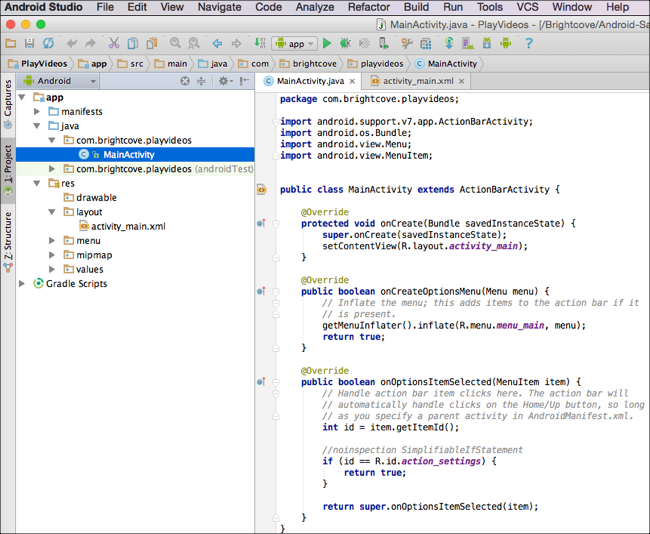
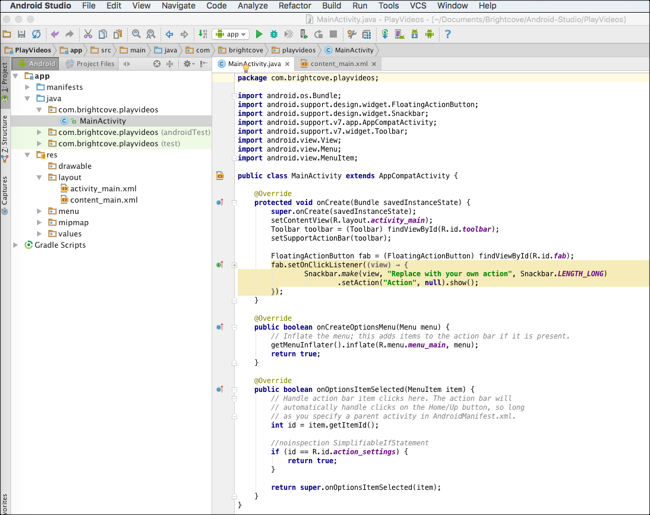
update Basic Activity for Android Studio QS

diff --git a/en/perform/mobile-sdks/brightcove-player-sdk-for-android/guides/studio-android-sdk-quick-start.html b/en/perform/mobile-sdks/brightcove-player-sdk-for-android/guides/studio-android-sdk-quick-start.html
@@ -49,11 +49,11 @@
             <p class="BCL-objective">In this quick start you will use Android Studio and the Brightcove Player SDK for Android to create an app which plays a video from a Brightcove Video Cloud account and videos from a Brightcove Video Cloud playlist.</p>
             <p>This example uses the <a href="../../../playback-api/index.html">Brightcove Playback API</a>. This is the latest and recommended API to retrieve content from your Video Cloud library.</p>
           </div><!--class="video-cloud-only"-->
-          
+
           <div class="perform-only">
             <p class="BCL-objective">In this quick start you will use Android Studio and the Brightcove Player SDK for Android to create an app which plays a single video.</p>
           </div><!--class="perform-only"-->
-          
+
             <!--break-->
             <div id="overview" class="section">
             <h2>Overview</h2>
@@ -96,8 +96,8 @@
                 <ul>
                     <li>If this is your first time opening Android Studio, select <strong>Start a new Android Studio project</strong>.</li>
                     <li>If you are seeing the menus, select <strong>File &gt; New &gt; New Project</strong>.</li>
-                </ul>  
-					
+                </ul>
+
             <ol start="4">
               <li><p>Supply values for the <strong>Application Name</strong>, <strong>Company Domain</strong>, and <strong>Project location</strong>. In this quick start the values shown below are used:</p>
                 <div><img src="../guides/assets/studioqs-new-project.png" alt="project name"></div></li>
@@ -105,8 +105,8 @@
               <li><p>Select the <strong>Phone and Tablet</strong> platform with the default minimum SDK value.  </p>
               <div><img src="../guides/assets/studioqs-platform.png" alt="project platform"></div></li>
               <li>Click <strong>Next</strong>.</li>
-              <li>Be sure <strong>Blank Activity</strong> is selected and click <strong>Next</strong>.</li>
-              <li>Accept the defaults of creating a <strong>Blank Activity</strong> and click <strong>Next</strong>.</li>
+              <li>Be sure <strong>Basic Activity</strong> is selected and click <strong>Next</strong>.</li>
+              <li>Accept the defaults of creating a <strong>Basic Activity</strong> and click <strong>Next</strong>.</li>
               <li><p>Accept the defaults for the activity details (see following screenshot) and click <strong>Finish</strong>.</p>
                 <div><img src="../guides/assets/studioqs-activity-class.png" alt="finish project creation"></div></li>
               <li><p>Android Studio will work for a while and eventually display the initial state of the project.</p>
@@ -186,7 +186,7 @@ the Native SDK for Android to our project.</p>
               <p class="perform-only"><code data-gist-id="9b3845c46244588687f7" data-gist-hide-footer="true" data-gist-line="315-325"></code></p>
 <!--                <p class="BCL-aside">Note: When extending the <code>BrightcovePlayer</code>, you must assign the <code>brightcoveVideoView</code> before entering the superclass, to allow for some basic player lifecycle management. </p>-->
                 </li>
-              
+
                 <li class="perform-only"><p>Next, you need to send your Perform Account ID to Brightcove using the analytics <code>setAccount()</code> method.</p>
                   <code data-gist-id="9b3845c46244588687f7" data-gist-hide-footer="true" data-gist-line="327-328"></code>
                 </li>
@@ -196,10 +196,10 @@ the Native SDK for Android to our project.</p>
                 <li><p>Now, add the following lines of code to add a video to the view and play it.</p>
                 <p class="perform-only"><code data-gist-id="9b3845c46244588687f7" data-gist-hide-footer="true" data-gist-line="330-331"></code></p>
               <p class="video-cloud-only"><code data-gist-id="9b3845c46244588687f7" data-gist-hide-footer="true" data-gist-line="228-229"></code></p></li>
-                
+
               <li class="perform-only"><p>Check to be sure your <code>onCreate()</code> method appears as follows:</p>
               <p><code data-gist-id="9b3845c46244588687f7" data-gist-hide-footer="true" data-gist-line="317-332"></code></p></li>
-          
+
               <li><p>Run or debug the application to see the video playing.</p>
               <p class="BCL-aside">When running the app on a device, make sure it is connected to the internet via your cell data plan or wifi.</p></li>
             </ol>
@@ -217,7 +217,7 @@ the Native SDK for Android to our project.</p>
               <li>Run the application and you will see the video playing, now with the controls visible. If you don't see the controls, tap the screen and they will appear.</li>
             </ol>
 -->
-            
+
             <div id="getVideo" class="section video-cloud-only">
               <h2>Get and play video</h2>
               <p>In this section, you will use the <code>Catalog</code> class to retrieve a single video from the Video Cloud server, then play it. </p>
@@ -283,10 +283,10 @@ the Native SDK for Android to our project.</p>
               <li>Run the app to confirm multiple videos from the playlist play.</li>
             </ol>
           </div><!--class="section video-cloud-only"-->
-          
+
           <p><strong>You're done! Thanks for working through the Android SDK Quick Start.</strong></p>
         </div>
-          
+
       </div>
     </div>
     <!-- bcl scripts -->
@@ -310,12 +310,12 @@ the Native SDK for Android to our project.</p>
         </script>
     <iframe id="CSAT" src="http://survey.clicktools.com/app/survey/go.jsp?iv=3poon3e7e9spn&q1=[articleURL]" style="margin-left:25%; padding-bottom:20px;width:550px;height:475px;border:none"></iframe>
 <script>
-    
+
     var cSat = document.getElementById('CSAT'),
         cSatSrc = cSat.getAttribute('src'),
         pageurl = window.location.href;
     cSat.setAttribute('src', cSatSrc.replace('[articleURL]', pageurl));
-    
+
 </script>
 <br><br>
 <div class="footer text-center"><a id="feedbackMail" href="mailto:docs@brightcove.com">Questions or comments?</a></div>

diff --git a/en/video-cloud/mobile-sdks/brightcove-player-sdk-for-android/guides/studio-android-sdk-quick-start.html b/en/video-cloud/mobile-sdks/brightcove-player-sdk-for-android/guides/studio-android-sdk-quick-start.html
@@ -49,11 +49,11 @@
             <p class="BCL-objective">In this quick start you will use Android Studio and the Brightcove Player SDK for Android to create an app which plays a video from a Brightcove Video Cloud account and videos from a Brightcove Video Cloud playlist.</p>
             <p>This example uses the <a href="../../../playback-api/index.html">Brightcove Playback API</a>. This is the latest and recommended API to retrieve content from your Video Cloud library.</p>
           </div><!--class="video-cloud-only"-->
-          
+
           <div class="perform-only">
             <p class="BCL-objective">In this quick start you will use Android Studio and the Brightcove Player SDK for Android to create an app which plays a single video.</p>
           </div><!--class="perform-only"-->
-          
+
             <!--break-->
             <div id="overview" class="section">
             <h2>Overview</h2>
@@ -96,8 +96,8 @@
                 <ul>
                     <li>If this is your first time opening Android Studio, select <strong>Start a new Android Studio project</strong>.</li>
                     <li>If you are seeing the menus, select <strong>File &gt; New &gt; New Project</strong>.</li>
-                </ul>  
-					
+                </ul>
+
             <ol start="4">
               <li><p>Supply values for the <strong>Application Name</strong>, <strong>Company Domain</strong>, and <strong>Project location</strong>. In this quick start the values shown below are used:</p>
                 <div><img src="../guides/assets/studioqs-new-project.png" alt="project name"></div></li>
@@ -105,8 +105,8 @@
               <li><p>Select the <strong>Phone and Tablet</strong> platform with the default minimum SDK value.  </p>
               <div><img src="../guides/assets/studioqs-platform.png" alt="project platform"></div></li>
               <li>Click <strong>Next</strong>.</li>
-              <li>Be sure <strong>Blank Activity</strong> is selected and click <strong>Next</strong>.</li>
-              <li>Accept the defaults of creating a <strong>Blank Activity</strong> and click <strong>Next</strong>.</li>
+              <li>Be sure <strong>Basic Activity</strong> is selected and click <strong>Next</strong>.</li>
+              <li>Accept the defaults of creating a <strong>Basic Activity</strong> and click <strong>Next</strong>.</li>
               <li><p>Accept the defaults for the activity details (see following screenshot) and click <strong>Finish</strong>.</p>
                 <div><img src="../guides/assets/studioqs-activity-class.png" alt="finish project creation"></div></li>
               <li><p>Android Studio will work for a while and eventually display the initial state of the project.</p>
@@ -186,7 +186,7 @@ the Native SDK for Android to our project.</p>
               <p class="perform-only"><code data-gist-id="9b3845c46244588687f7" data-gist-hide-footer="true" data-gist-line="315-325"></code></p>
 <!--                <p class="BCL-aside">Note: When extending the <code>BrightcovePlayer</code>, you must assign the <code>brightcoveVideoView</code> before entering the superclass, to allow for some basic player lifecycle management. </p>-->
                 </li>
-              
+
                 <li class="perform-only"><p>Next, you need to send your Perform Account ID to Brightcove using the analytics <code>setAccount()</code> method.</p>
                   <code data-gist-id="9b3845c46244588687f7" data-gist-hide-footer="true" data-gist-line="327-328"></code>
                 </li>
@@ -196,10 +196,10 @@ the Native SDK for Android to our project.</p>
                 <li><p>Now, add the following lines of code to add a video to the view and play it.</p>
                 <p class="perform-only"><code data-gist-id="9b3845c46244588687f7" data-gist-hide-footer="true" data-gist-line="330-331"></code></p>
               <p class="video-cloud-only"><code data-gist-id="9b3845c46244588687f7" data-gist-hide-footer="true" data-gist-line="228-229"></code></p></li>
-                
+
               <li class="perform-only"><p>Check to be sure your <code>onCreate()</code> method appears as follows:</p>
               <p><code data-gist-id="9b3845c46244588687f7" data-gist-hide-footer="true" data-gist-line="317-332"></code></p></li>
-          
+
               <li><p>Run or debug the application to see the video playing.</p>
               <p class="BCL-aside">When running the app on a device, make sure it is connected to the internet via your cell data plan or wifi.</p></li>
             </ol>
@@ -217,7 +217,7 @@ the Native SDK for Android to our project.</p>
               <li>Run the application and you will see the video playing, now with the controls visible. If you don't see the controls, tap the screen and they will appear.</li>
             </ol>
 -->
-            
+
             <div id="getVideo" class="section video-cloud-only">
               <h2>Get and play video</h2>
               <p>In this section, you will use the <code>Catalog</code> class to retrieve a single video from the Video Cloud server, then play it. </p>
@@ -283,10 +283,10 @@ the Native SDK for Android to our project.</p>
               <li>Run the app to confirm multiple videos from the playlist play.</li>
             </ol>
           </div><!--class="section video-cloud-only"-->
-          
+
           <p><strong>You're done! Thanks for working through the Android SDK Quick Start.</strong></p>
         </div>
-          
+
       </div>
     </div>
     <!-- bcl scripts -->
@@ -310,12 +310,12 @@ the Native SDK for Android to our project.</p>
         </script>
     <iframe id="CSAT" src="http://survey.clicktools.com/app/survey/go.jsp?iv=3poon3e7e9spn&q1=[articleURL]" style="margin-left:25%; padding-bottom:20px;width:550px;height:475px;border:none"></iframe>
 <script>
-    
+
     var cSat = document.getElementById('CSAT'),
         cSatSrc = cSat.getAttribute('src'),
         pageurl = window.location.href;
     cSat.setAttribute('src', cSatSrc.replace('[articleURL]', pageurl));
-    
+
 </script>
 <br><br>
 <div class="footer text-center"><a id="feedbackMail" href="mailto:docs@brightcove.com">Questions or comments?</a></div>
